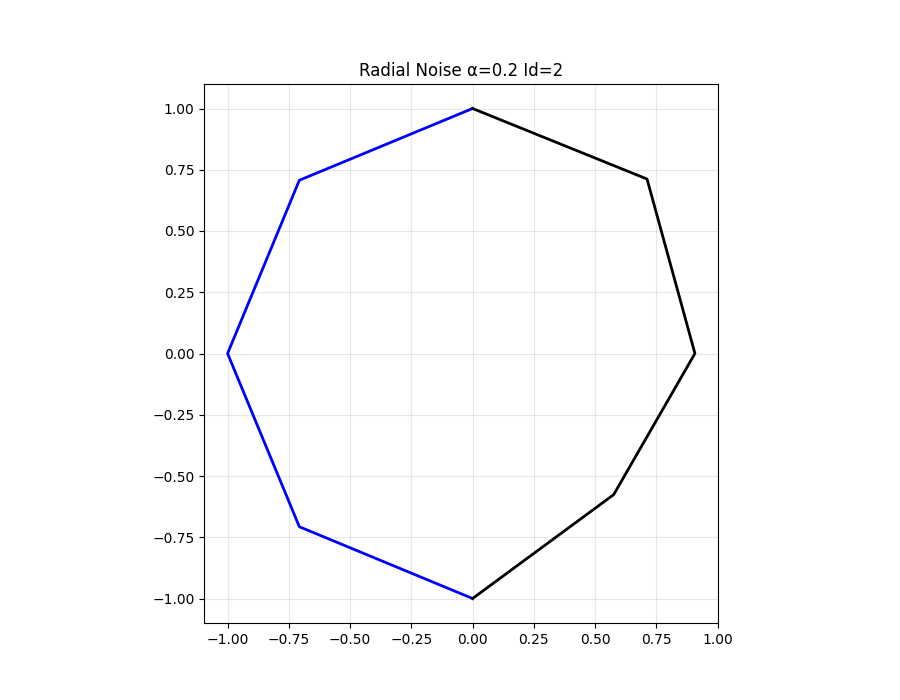
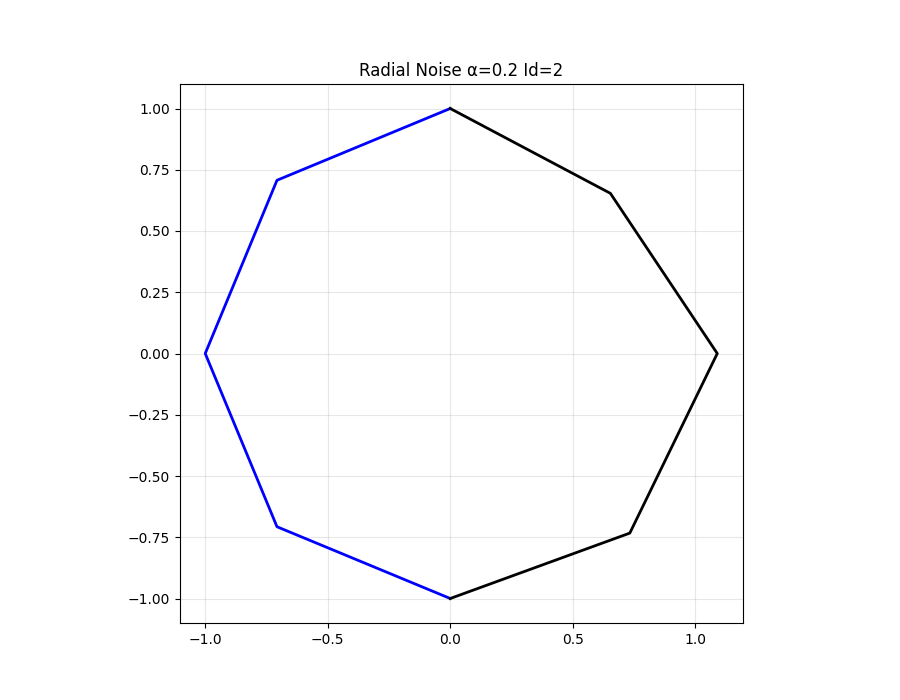
Pridani moznosti vybrat procento bodu pro deformaci

diff --git a/Controllers/ShapeProcessor.py b/Controllers/ShapeProcessor.py
@@ -1,7 +1,7 @@
+from ast import Tuple
 import numpy as np
-
 from Models.point import Point
-
+from Models.shape import Shape
 
 def shape_connect(shape1, shape2):
     new_name = f"{shape1.name}_plus_{shape2.name}"
@@ -42,3 +42,122 @@ def mirror_x(shape):
 
     return mirrored_shape
 
+
+
+
+import numpy as np
+from typing import Tuple
+# Předpokládáme import třídy Shape
+
+def split_shape_by_percentage(shape: Shape, movement_pct: float) -> Tuple[Shape, Shape]:
+    """
+    Rozdělí body tvaru na pohyblivou a pevnou sadu, přičemž první a poslední bod
+    jsou VŽDY automaticky zařazeny do pevné sady (zámek okrajů).
+
+    :param shape: Vstupní tvar.
+    :param movement_pct: Procento bodů ze STŘEDU tvaru, které se stanou "pohyblivými".
+    :returns: Dvojice (Shape_pohyblivá, Shape_pevná).
+    """
+    if not 0.0 <= movement_pct <= 1.0:
+         raise ValueError("movement_pct musí být v rozsahu 0.0 až 1.0.")
+
+    num_points = len(shape.points)
+    
+    # --- 1. GARANTOVANÝ ZÁMEK OKRAJŮ ---
+    # Indexy 0 a N-1 jsou VŽDY pevné.
+    if num_points < 3:
+        # Nelze rozdělit, pokud jsou jen 1 nebo 2 body, které by byly vždy uzamčeny
+        raise ValueError("Tvar musí mít alespoň 3 body pro částečnou deformaci s uzamčenými okraji.")
+        
+    # Indexy bodů uprostřed (vyloučí 0 a N-1)
+    central_indices = np.arange(1, num_points - 1)
+    num_central = len(central_indices)
+    
+    # Vždy pevné body (index 0 a N-1)
+    guaranteed_fixed_indices = [0, num_points - 1]
+    
+    # --- 2. NÁHODNÝ VÝBĚR (jen ze středu) ---
+    
+    # Počet bodů, které se mají HÝBAT (vybráno ze střední sady)
+    num_to_move = int(round(num_central * movement_pct))
+
+    # Náhodné promíchání indexů ze středu
+    np.random.shuffle(central_indices) 
+    
+    # 3. Rozdělení indexů
+    moving_indices = central_indices[:num_to_move].tolist()
+    
+    # Zbytek ze středu + garantovaně pevné
+    fixed_from_center = central_indices[num_to_move:].tolist()
+    fixed_indices = guaranteed_fixed_indices + fixed_from_center
+    
+    # 4. Tvorba POHYBLIVÉHO tvaru
+    # Body jsou vybírány z původního shape.points, kopírujeme je
+    moving_points = [shape.points[i].copy() for i in moving_indices]
+    moving_shape = Shape(shape.name + "_moving", moving_points, contains_indices=moving_indices)
+    
+    # 5. Tvorba PEVNÉHO tvaru
+    # Zde je klíčové, aby FIXED_POINTS zůstaly v PŮVODNÍM POŘADÍ, 
+    # pro kombinaci to není nutné, ale je to dobrá praxe.
+    # Proto indexy seřadíme, abychom zjednodušili debug, pokud nefunguje combine_by_index
+    fixed_indices.sort() 
+    fixed_points = [shape.points[i].copy() for i in fixed_indices]
+    fixed_shape = Shape(shape.name + "_fixed", fixed_points, contains_indices=fixed_indices)
+    
+    return moving_shape, fixed_shape
+
+from typing import Dict
+# Předpokládáme, že Shape a Point jsou importovány
+
+def shape_connect_by_index(
+    shape_1: Shape, 
+    shape_2: Shape, 
+    original_length: int,
+    original_shape_name: str
+) -> Shape:
+    """
+    Kombinuje body z tvarů shape_1 a shape_2 zpět do jednoho tvaru v původním pořadí,
+    na základě jejich 'contains_indices'.
+
+    :param shape_1: První tvar (např. deformovaná část).
+    :param shape_2: Druhý tvar (např. pevná část).
+    :param original_length: Celková délka výsledného Shape (počet bodů v Shape před rozdělením).
+    :param original_shape_name: Jméno původního tvaru pro vytvoření nového jména.
+    :returns: Nový Shape s body v původním pořadí.
+    """
+
+    
+    # 1. Vytvoření mapování (index -> bod) pro rychlé vyhledávání
+    # Tato mapa bude sloužit jako zdroj všech bodů
+    point_map: Dict[int, Point] = {}
+
+    for shape_part in [shape_1, shape_2]:
+        if not shape_part.contains_indices:
+             raise ValueError(f"Shape part '{shape_part.name}' nemá definované 'contains_indices'. Nelze kombinovat.")
+        
+        # Zaplnění mapy: klíč = původní index, hodnota = bod
+        for original_index, point in zip(shape_part.contains_indices, shape_part.points):
+            if original_index in point_map:
+                 # Tohle by nemělo nastat, pokud se indexy nepřekrývají
+                 raise RuntimeError(f"Index {original_index} je obsažen ve více částech.")
+            point_map[original_index] = point
+
+    # 2. Sestavení finálního seznamu v požadovaném pořadí (0 až N-1)
+    combined_points = [None] * original_length 
+    
+    for i in range(original_length):
+        if i not in point_map:
+            raise RuntimeError(f"Kombinace selhala: Bod s původním indexem {i} chybí v obou tvarech.")
+        
+        combined_points[i] = point_map[i]
+
+    # 3. Kontrola (volitelné, ale dobré)
+    if None in combined_points:
+        # Toto by mělo být pokryto v kroku 2, ale pro jistotu
+        raise RuntimeError("Kombinace selhala: Některé sloty zůstaly prázdné.")
+
+    # 4. Vytvoření finálního tvaru
+    new_name = original_shape_name + "_recombined_2p"
+    final_shape = Shape(new_name, combined_points)
+    
+    return final_shape

diff --git a/main.py b/main.py
@@ -1,21 +1,47 @@
 from Controllers.ShapeDrawer import Drawer
-from Controllers.ShapeProcessor import get_centroid,mirror_y,shape_connect
+from Controllers.ShapeProcessor import get_centroid,mirror_y,shape_connect, shape_connect_by_index, split_shape_by_percentage
 from Controllers.FileLoader.FileLoader import load_geometry
 from Controllers.Shape_Generator import GenerateRadialNoiseShapes, GenerateRandomNoiseShapes
 from Controllers.transforms.radial_noise import add_radial_noise
 import matplotlib.pyplot as plt
+
+from Controllers.transforms.random_noise import add_random_noise
 
 def main():
     # 1) načtení tvarů ze souboru
     shapes = load_geometry("./Controllers/FileLoader/shapes_clean.txt")
     shape = shapes[list(shapes.keys())[0]]
 
-    # 2) generování tvarů s radiálním šumem
-    num_shapes = 5  # počet tvarů k vygenerován
-    alpha = 0.2  # maximální posun bodu
-    GenerateRadialNoiseShapes(shape, alpha, num_shapes)
 
-    GenerateRandomNoiseShapes(shape, alpha, num_shapes)
+    shape_side = mirror_y(shape)   # vytvoření zrcadleného tvaru pro demonstraci
+
+
+    shape_movable, shape_fixed = split_shape_by_percentage(shape_side, 0.5)
+
+    shape_movebale_deformation = add_random_noise(shape_movable, alpha=0.2, lock_edges=False)
+
+
+
+    shape_side = shape_connect_by_index(shape_movebale_deformation, shape_fixed, len(shape_side.points), shape_side.name)
+
+  
+    drawer = Drawer()
+    drawer.draw_points(shape_movebale_deformation, color="red", size=10)
+    drawer.draw_shape(shape, color="black", linewidth=1)
+    drawer.draw_shape(shape_side, color="blue", linewidth=1)
+    drawer.set_title("Tvar s radiálním šumem na polovině bodů")
+    drawer.show()
+
+
+
+
+
+    # # 2) generování tvarů s radiálním šumem
+    # num_shapes = 5  # počet tvarů k vygenerován
+    # alpha = 0.2  # maximální posun bodu
+    # GenerateRadialNoiseShapes(shape, alpha, num_shapes)
+
+    # GenerateRandomNoiseShapes(shape, alpha, num_shapes)
     
 
 

diff --git a/Models/shape.py b/Models/shape.py
@@ -2,9 +2,20 @@ import numpy as np
 from .point import Point
 
 class Shape:
-    def __init__(self,name: str, points: list[Point]):
+    def __init__(self, name: str, points: list[Point], contains_indices: list[int] = None):
+        """
+        Inicializace tvaru.
+
+        :param name: Jméno tvaru.
+        :param points: Seznam bodů, které tvoří tvar.
+        :param contains_indices: Volitelný seznam indexů, které tyto body zabíraly
+                                 v původním celém tvaru (klíčové pro re-kombinaci).
+        """
         self.name = name
         self.points = points  # list[Point]
+        
+        # NOVÝ ATRIBUT: Ukládá indexy z původního, celého tvaru
+        self.contains_indices = contains_indices if contains_indices is not None else [] 
 
     @property
     def x(self):
@@ -26,7 +37,10 @@ class Shape:
         # 2. Určíme nové jméno
         name_to_use = new_name if new_name is not None else self.name + "_copy"
 
-        # 3. Vytvoříme a vrátíme NOVOU instanci Shape
-        return Shape(name_to_use, new_points)
-  
-
+        # 3. Vytvoříme NOVOU instanci Shape a zkopírujeme i indexy
+        new_shape = Shape(name_to_use, new_points)
+        
+        # Klíčové: Zkopírujeme i seznam indexů
+        new_shape.contains_indices = self.contains_indices.copy() 
+        
+        return new_shape

diff --git a/Controllers/Shape_Generator.py b/Controllers/Shape_Generator.py
@@ -9,14 +9,15 @@ from Models.shape import Shape
 
 def GenerateRadialNoiseShapes(shape: Shape, alpha: float, num_shapes: int):
 
+    other_half = mirror_y(shape)
+                
+    shape_before_transform = shape_connect(shape, other_half)
+                
+    centroid = get_centroid(shape_before_transform)
 
     for i in range(num_shapes):
         
-            other_half = mirror_y(shape)
             
-            shape_before_transform = shape_connect(shape, other_half)
-            
-            centroid = get_centroid(shape_before_transform)
             
             result = add_radial_noise(other_half, centroid, alpha)
 
@@ -38,15 +39,11 @@ def GenerateRadialNoiseShapes(shape: Shape, alpha: float, num_shapes: int):
 
 def GenerateRandomNoiseShapes(shape: Shape, alpha: float, num_shapes: int):
 
+    other_half = mirror_y(shape)    
 
     for i in range(num_shapes):
         
-            other_half = mirror_y(shape)
-            
-            shape_before_transform = shape_connect(shape, other_half)
-            
-            centroid = get_centroid(shape_before_transform)
-            
+    
             result = add_random_noise(other_half, alpha)
 
             shape_to_save = shape_connect(shape, result)
